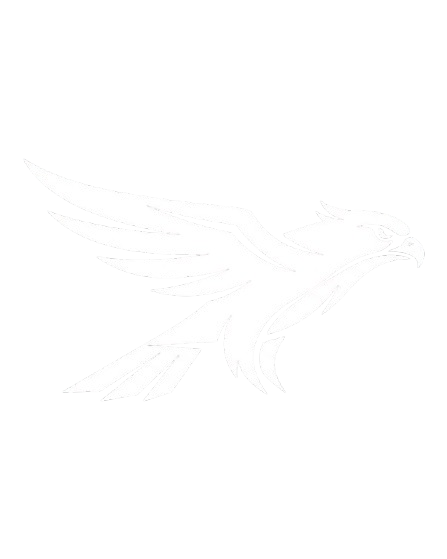
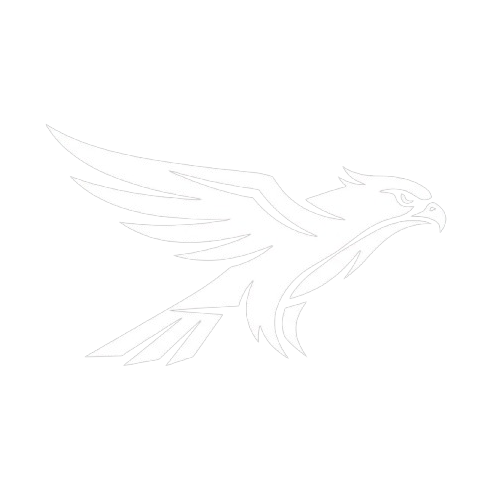
v173: tutorial only on first-open (mark done on start), bigger falcon badge (tight square crop)

diff --git a/index.html b/index.html
@@ -10,7 +10,7 @@
 <!-- Force-update: unregister → re-register → SW ready → reload -->
 <script>
   (function() {
-    var V = '172';
+    var V = '173';
     if (localStorage.getItem('_visao_build') !== V) {
       localStorage.setItem('_visao_build', V);
       if ('caches' in window) {
@@ -43,7 +43,7 @@
 <meta name="apple-mobile-web-app-status-bar-style" content="black-translucent">
 <meta name="apple-mobile-web-app-title" content="Falcon">
 <meta name="mobile-web-app-capable" content="yes">
-<link rel="stylesheet" href="css/styles.css?v=20260712s">
+<link rel="stylesheet" href="css/styles.css?v=20260712t">
 <style>.onboarding-logo,.ajustes-avatar{background:#4f46e5!important}</style>
 <script>
   // Aplica tema ANTES de qualquer render — evita flash de tema errado
@@ -61,11 +61,11 @@
 <body>
   <div id="app">
     <div style="padding:80px 20px;text-align:center;color:var(--muted)">
-      <img src="icons/icon-192.png?v=20260712s" style="width:64px;height:64px;border-radius:18px;display:block;margin:0 auto 14px;object-fit:cover;">
+      <img src="icons/icon-192.png?v=20260712t" style="width:64px;height:64px;border-radius:18px;display:block;margin:0 auto 14px;object-fit:cover;">
       <div>Carregando Falcon...</div>
     </div>
   </div>
-  <script type="module" src="js/inicializador.js?v=20260712s"></script>
+  <script type="module" src="js/inicializador.js?v=20260712t"></script>
 
   <!-- Registro do Service Worker (PWA) -->
   <script>

diff --git a/sw.js b/sw.js
@@ -6,7 +6,7 @@
 //   - Firebase/CDN → sempre rede (não cacheia)
 // ═══════════════════════════════════════════════════════════════
 
-const CACHE_NAME = 'visao-v172';
+const CACHE_NAME = 'visao-v173';
 
 // Estado de mute — atualizado via postMessage do app principal
 let _muted = false;

diff --git a/js/screens/tela-inicio.js b/js/screens/tela-inicio.js
@@ -135,7 +135,10 @@ export async function renderHome(app) {
   attachPrefHandlers();
   loadAndRenderReminders();
 
+  // Auto-inicia SÓ na primeira vez do usuário. Marca como visto ANTES de abrir,
+  // pra não reaparecer se ele pular (X) — pular não chamava markDone e voltava sempre.
   if (!tour.isCompleted()) {
+    tour.markDone();
     setTimeout(() => tour.start(ONBOARDING_STEPS), 800);
   }
 }
